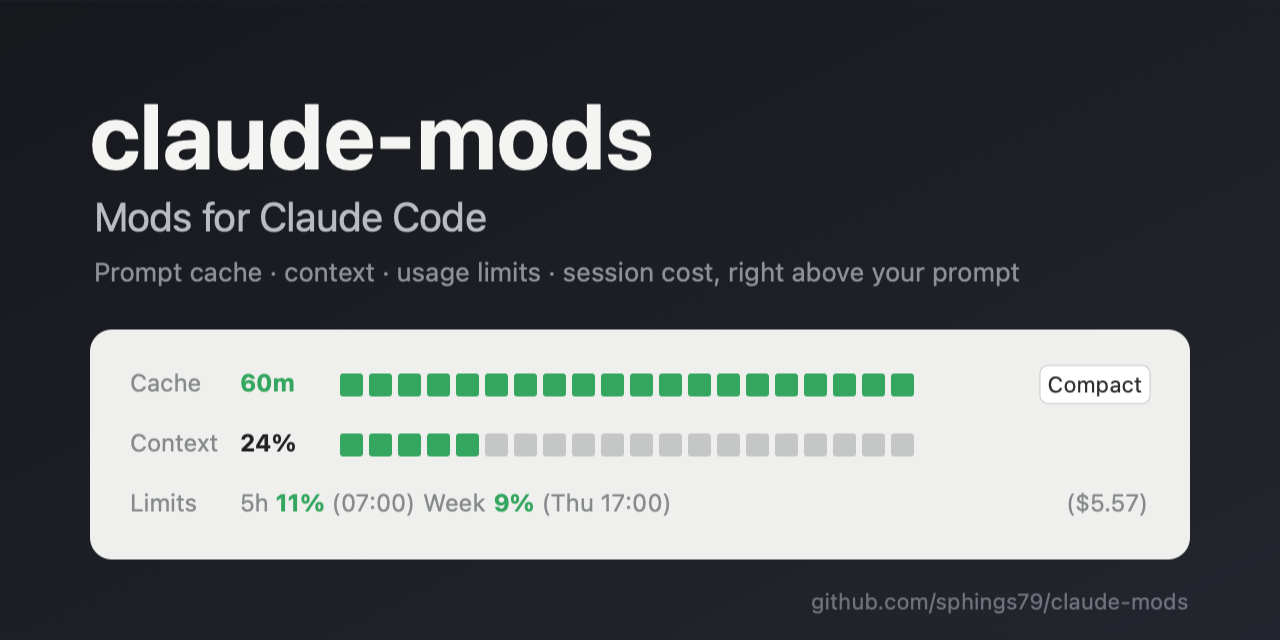
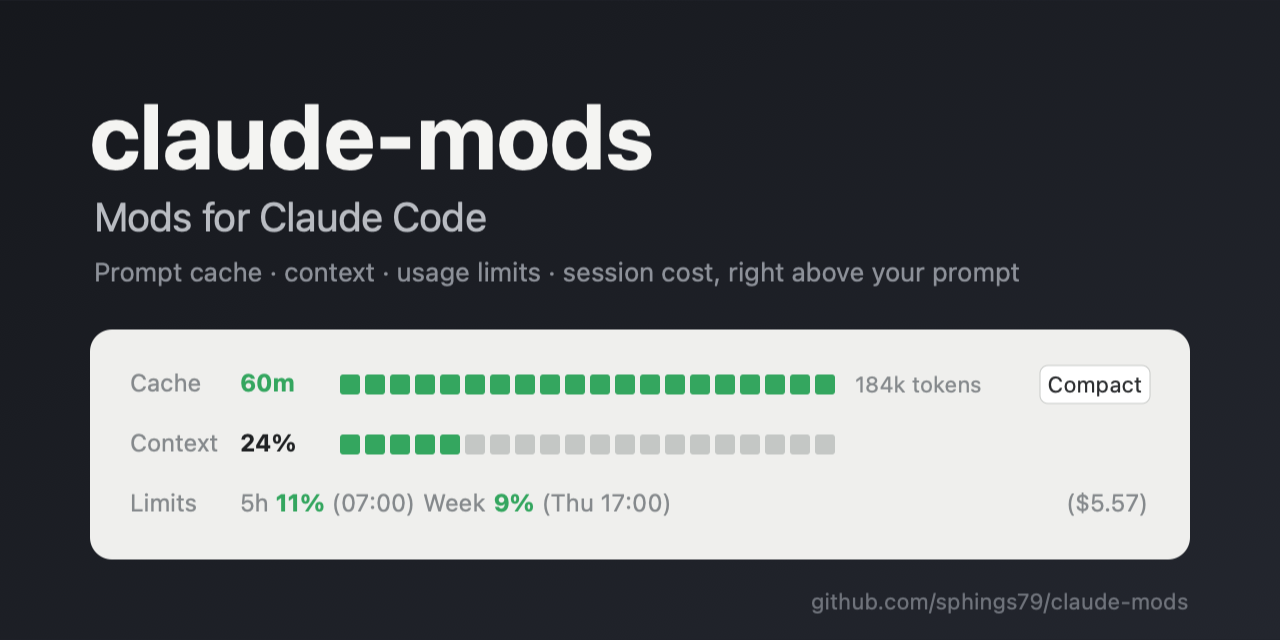
Show cache token count in the cache row
- session-status: tokens held by the cache (read + written by the last response)
- README (en/de) and social preview updated

Changed region(s): [[0.2812, 0.5625, 0.7812, 0.625], [0.2812, 0.6562, 0.7188, 0.7188]]

diff --git a/session-status/hooks/logic.ts b/session-status/hooks/logic.ts
@@ -31,6 +31,15 @@ export const contextCells = (percent: number): number =>
 // Calm, getting full, nearly full.
 export const contextLevel = (percent: number): Level => (percent >= 80 ? 'alert' : percent >= 60 ? 'warn' : 'ok')
 
+// Tokens the cache holds: what the last response read from it plus what it wrote.
+export const cacheTokens = (usage: { cache_read_input_tokens?: number | null; cache_creation_input_tokens?: number | null }): number | null => {
+  const total = (usage.cache_read_input_tokens ?? 0) + (usage.cache_creation_input_tokens ?? 0)
+  return total > 0 ? total : null
+}
+
+export const formatTokens = (n: number): string =>
+  n < 1000 ? String(n) : n < 1_000_000 ? `${Math.round(n / 1000)}k` : `${(n / 1_000_000).toFixed(1)}M`
+
 export const usd = (n: number): string => `$${n.toFixed(2)}`
 
 const pad = (n: number) => String(n).padStart(2, '0')
@@ -50,6 +59,6 @@ export const resetLabel = (iso: string | null, lang: Lang, now: number): string 
 export const minutesLeft = (secondsLeft: number): number => Math.ceil(secondsLeft / 60)
 
 export const TEXT = {
-  de: { cache: 'Cache', expired: 'abgelaufen', context: 'Kontext', auto: 'Auto-Compact', compact: 'Compact', limits: 'Limits', week: 'Woche', spend: 'Limit', days: ['So', 'Mo', 'Di', 'Mi', 'Do', 'Fr', 'Sa'], busy: 'Compact geht erst nach der Antwort.', shown: 'Status-Leiste eingeblendet.', hidden: 'Status-Leiste ausgeblendet.' },
-  en: { cache: 'Cache', expired: 'expired', context: 'Context', auto: 'Auto-compact', compact: 'Compact', limits: 'Limits', week: 'Week', spend: 'Limit', days: ['Sun', 'Mon', 'Tue', 'Wed', 'Thu', 'Fri', 'Sat'], busy: 'Compact works once the answer is done.', shown: 'Status band shown.', hidden: 'Status band hidden.' },
+  de: { cache: 'Cache', expired: 'abgelaufen', context: 'Kontext', auto: 'Auto-Compact', compact: 'Compact', tokens: 'Token', limits: 'Limits', week: 'Woche', spend: 'Limit', days: ['So', 'Mo', 'Di', 'Mi', 'Do', 'Fr', 'Sa'], busy: 'Compact geht erst nach der Antwort.', shown: 'Status-Leiste eingeblendet.', hidden: 'Status-Leiste ausgeblendet.' },
+  en: { cache: 'Cache', expired: 'expired', context: 'Context', auto: 'Auto-compact', compact: 'Compact', tokens: 'tokens', limits: 'Limits', week: 'Week', spend: 'Limit', days: ['Sun', 'Mon', 'Tue', 'Wed', 'Thu', 'Fri', 'Sat'], busy: 'Compact works once the answer is done.', shown: 'Status band shown.', hidden: 'Status band hidden.' },
 } as const

diff --git a/session-status/hooks/register.tsx b/session-status/hooks/register.tsx
@@ -2,7 +2,7 @@ import { atom, read, update } from 'claude-code'
 import type { EngineInterface, Register } from 'claude-code'
 
 import type { Cache, Stats } from '../types'
-import { BAR_CELLS, CACHE_TTL_S, TEXT, cacheLevel, contextCells, contextLevel, filledCells, langOf, limitLabel, minutesLeft, resetLabel, usd } from './logic'
+import { BAR_CELLS, CACHE_TTL_S, TEXT, cacheLevel, cacheTokens, formatTokens, contextCells, contextLevel, filledCells, langOf, limitLabel, minutesLeft, resetLabel, usd } from './logic'
 import type { Lang, Level } from './logic'
 
 const stats = atom({ plugin: 'session-status', key: 'stats' } as const, {
@@ -10,6 +10,7 @@ const stats = atom({ plugin: 'session-status', key: 'stats' } as const, {
   context: 0,
   autoCompact: null,
   cost: null,
+  cacheTokens: null,
   limits: [],
 } as Stats)
 
@@ -82,6 +83,19 @@ export const register: Register = (on, options) => {
     return next(e)
   })
 
+  // What the cache holds, from the main agent's last response.
+  on('turn.step', async function* ($, e, next) {
+    if (e.agentId !== undefined) return yield* next(e)
+
+    for await (const chunk of next(e)) {
+      if (chunk.kind === 'stop' && chunk.usage !== null) {
+        const tokens = cacheTokens(chunk.usage)
+        if (tokens !== null) await update($, stats, s => ({ ...s, cacheTokens: tokens }))
+      }
+      yield chunk
+    }
+  })
+
   on('turn.complete', async ($, e, next) => {
     const result = await next(e)
 
@@ -136,6 +150,9 @@ export const register: Register = (on, options) => {
             </Text>
           ) : null}
           {level === 'expired' ? <Text bold color={color} wrap="truncate-end">{t.expired}</Text> : null}
+          {level !== 'expired' && s.cacheTokens !== null ? (
+            <Text dimColor wrap="truncate-end">{`${formatTokens(s.cacheTokens)} ${t.tokens}`}</Text>
+          ) : null}
           <Box flexGrow={1} flexShrink={1} />
           <Button
             key="compact"

diff --git a/session-status/hooks/logic.test.ts b/session-status/hooks/logic.test.ts
@@ -1,6 +1,6 @@
 import { test, expect } from 'claude-code/testing'
 
-import { cacheLevel, contextCells, contextLevel, filledCells, langOf, limitLabel, minutesLeft, resetLabel, usd } from './logic'
+import { cacheLevel, cacheTokens, formatTokens, contextCells, contextLevel, filledCells, langOf, limitLabel, minutesLeft, resetLabel, usd } from './logic'
 
 test('cache levels and bar', () => {
   expect(cacheLevel(null)).toBeNull()
@@ -40,4 +40,12 @@ test('limits and cost', () => {
   const noon = new Date(2026, 9, 14, 12, 0).getTime()
   expect(resetLabel(new Date(2026, 9, 14, 14, 30).toISOString(), 'de', noon)).toBe('14:30')
   expect(resetLabel(new Date(2026, 9, 19, 9, 5).toISOString(), 'de', noon)).toBe('Mo 09:05')
+})
+
+test('cache tokens', () => {
+  expect(cacheTokens({ cache_read_input_tokens: 180000, cache_creation_input_tokens: 4000 })).toBe(184000)
+  expect(cacheTokens({ cache_read_input_tokens: 0, cache_creation_input_tokens: null })).toBeNull()
+  expect(formatTokens(950)).toBe('950')
+  expect(formatTokens(184000)).toBe('184k')
+  expect(formatTokens(1_250_000)).toBe('1.3M')
 })

diff --git a/session-status/types/index.d.ts b/session-status/types/index.d.ts
@@ -9,6 +9,7 @@ export type Stats = {
   context: number
   autoCompact: number | null
   cost: number | null
+  cacheTokens: number | null
   limits: Limit[]
 }
 

diff --git a/README.de.md b/README.de.md
@@ -52,12 +52,12 @@ claude plugin uninstall session-status@claude-mods
 ## session-status
 
 ```
-Cache    60m ■■■■■■■■■■■■■■■■■■■■                         [Compact]
+Cache    60m ■■■■■■■■■■■■■■■■■■■■ 184k Token                  [Compact]
 Kontext  19% ■■■■□□□□□□□□□□□□□□□□ (Auto-Compact 97%)
 Limits   5h 23% (14:30)  Woche 41% (Mo 09:00)               ($1.23)
 ```
 
-- **Cache**: Minuten, die der 1-Stunden-Prompt-Cache seit der letzten Antwort noch hat. Der Balken zeigt die Restzeit: grün, bei 20 min Amber, bei 10 min Rot, `abgelaufen` wenn er weg ist.
+- **Cache**: Minuten, die der 1-Stunden-Prompt-Cache seit der letzten Antwort noch hat. Der Balken zeigt die Restzeit: grün, bei 20 min Amber, bei 10 min Rot, `abgelaufen` wenn er weg ist. Hinter dem Balken: wie viele Token im Cache liegen (gelesen plus geschrieben von der letzten Antwort).
 - **Kontext**: Balken nach Füllung, grün, ab 60 % Amber, ab 80 % Rot.
 - **Auto-Compact**: Schwelle, bei der Claude Code von selbst komprimiert, in Prozent des Fensters.
 - **Limits**: Auslastung des 5-Stunden- und des Wochenfensters mit Reset-Zeit, auch das Spend-Limit eines Gateways. Die Farben folgen den Kontext-Schwellen. Erscheint, sobald die letzte Antwort sie gemeldet hat.

diff --git a/README.md b/README.md
@@ -52,12 +52,12 @@ claude plugin uninstall session-status@claude-mods
 ## session-status
 
 ```
-Cache    60m ■■■■■■■■■■■■■■■■■■■■                         [Compact]
+Cache    60m ■■■■■■■■■■■■■■■■■■■■ 184k tokens                  [Compact]
 Context  19% ■■■■□□□□□□□□□□□□□□□□ (Auto-compact 97%)
 Limits   5h 23% (14:30)  Week 41% (Mon 09:00)               ($1.23)
 ```
 
-- **Cache**: minutes left on the 1-hour prompt cache since the last answer. The bar shows the time left: green, amber at 20 min, red at 10 min, `expired` when it is gone.
+- **Cache**: minutes left on the 1-hour prompt cache since the last answer. The bar shows the time left: green, amber at 20 min, red at 10 min, `expired` when it is gone. Behind the bar: how many tokens the cache holds (read plus written by the last response).
 - **Context**: bar by context fill, green, amber from 60 %, red from 80 %.
 - **Auto-compact**: the threshold at which Claude Code compacts on its own, in percent of the window.
 - **Limits**: usage of the 5-hour and weekly windows with their reset time; a gateway's spend limit too. Colours follow the context thresholds. Shown once the last response reported them.
